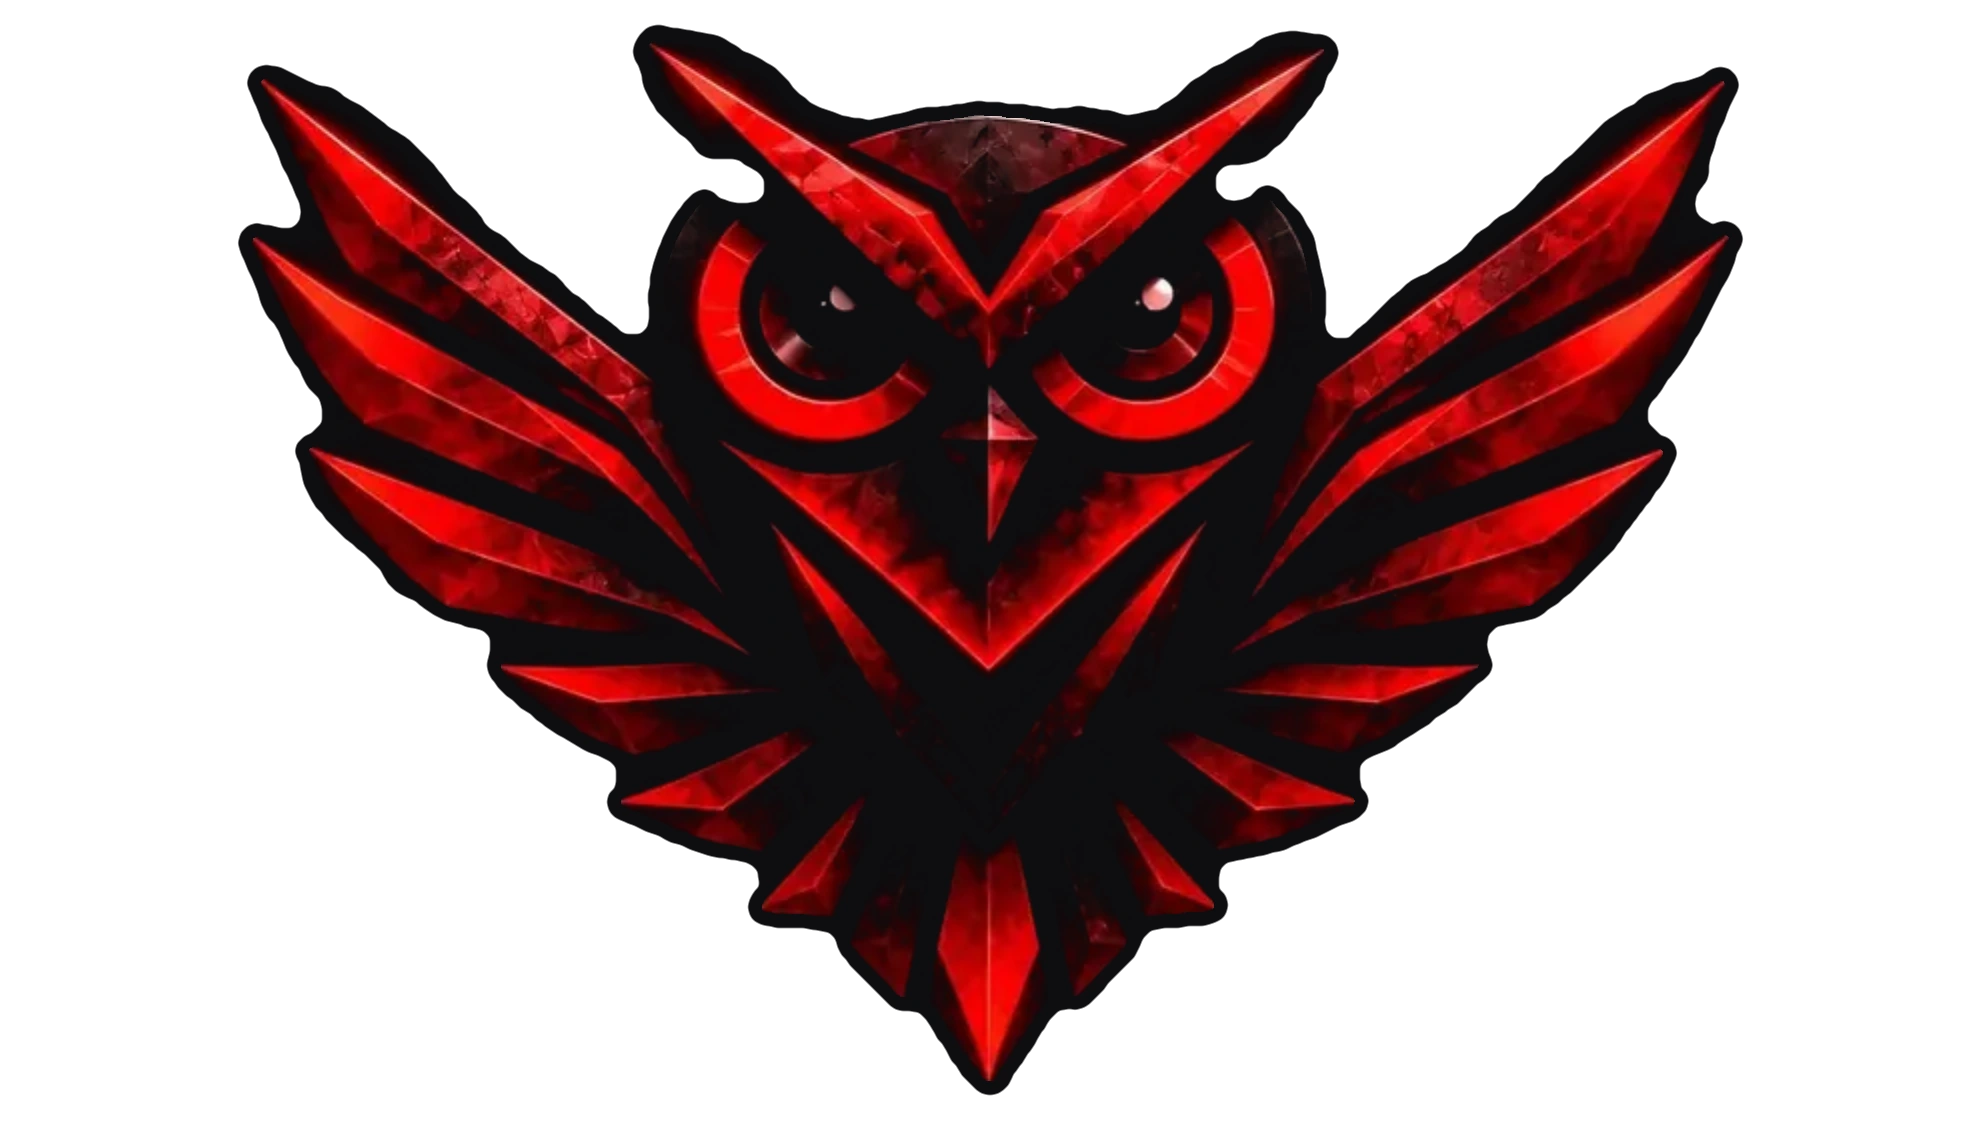
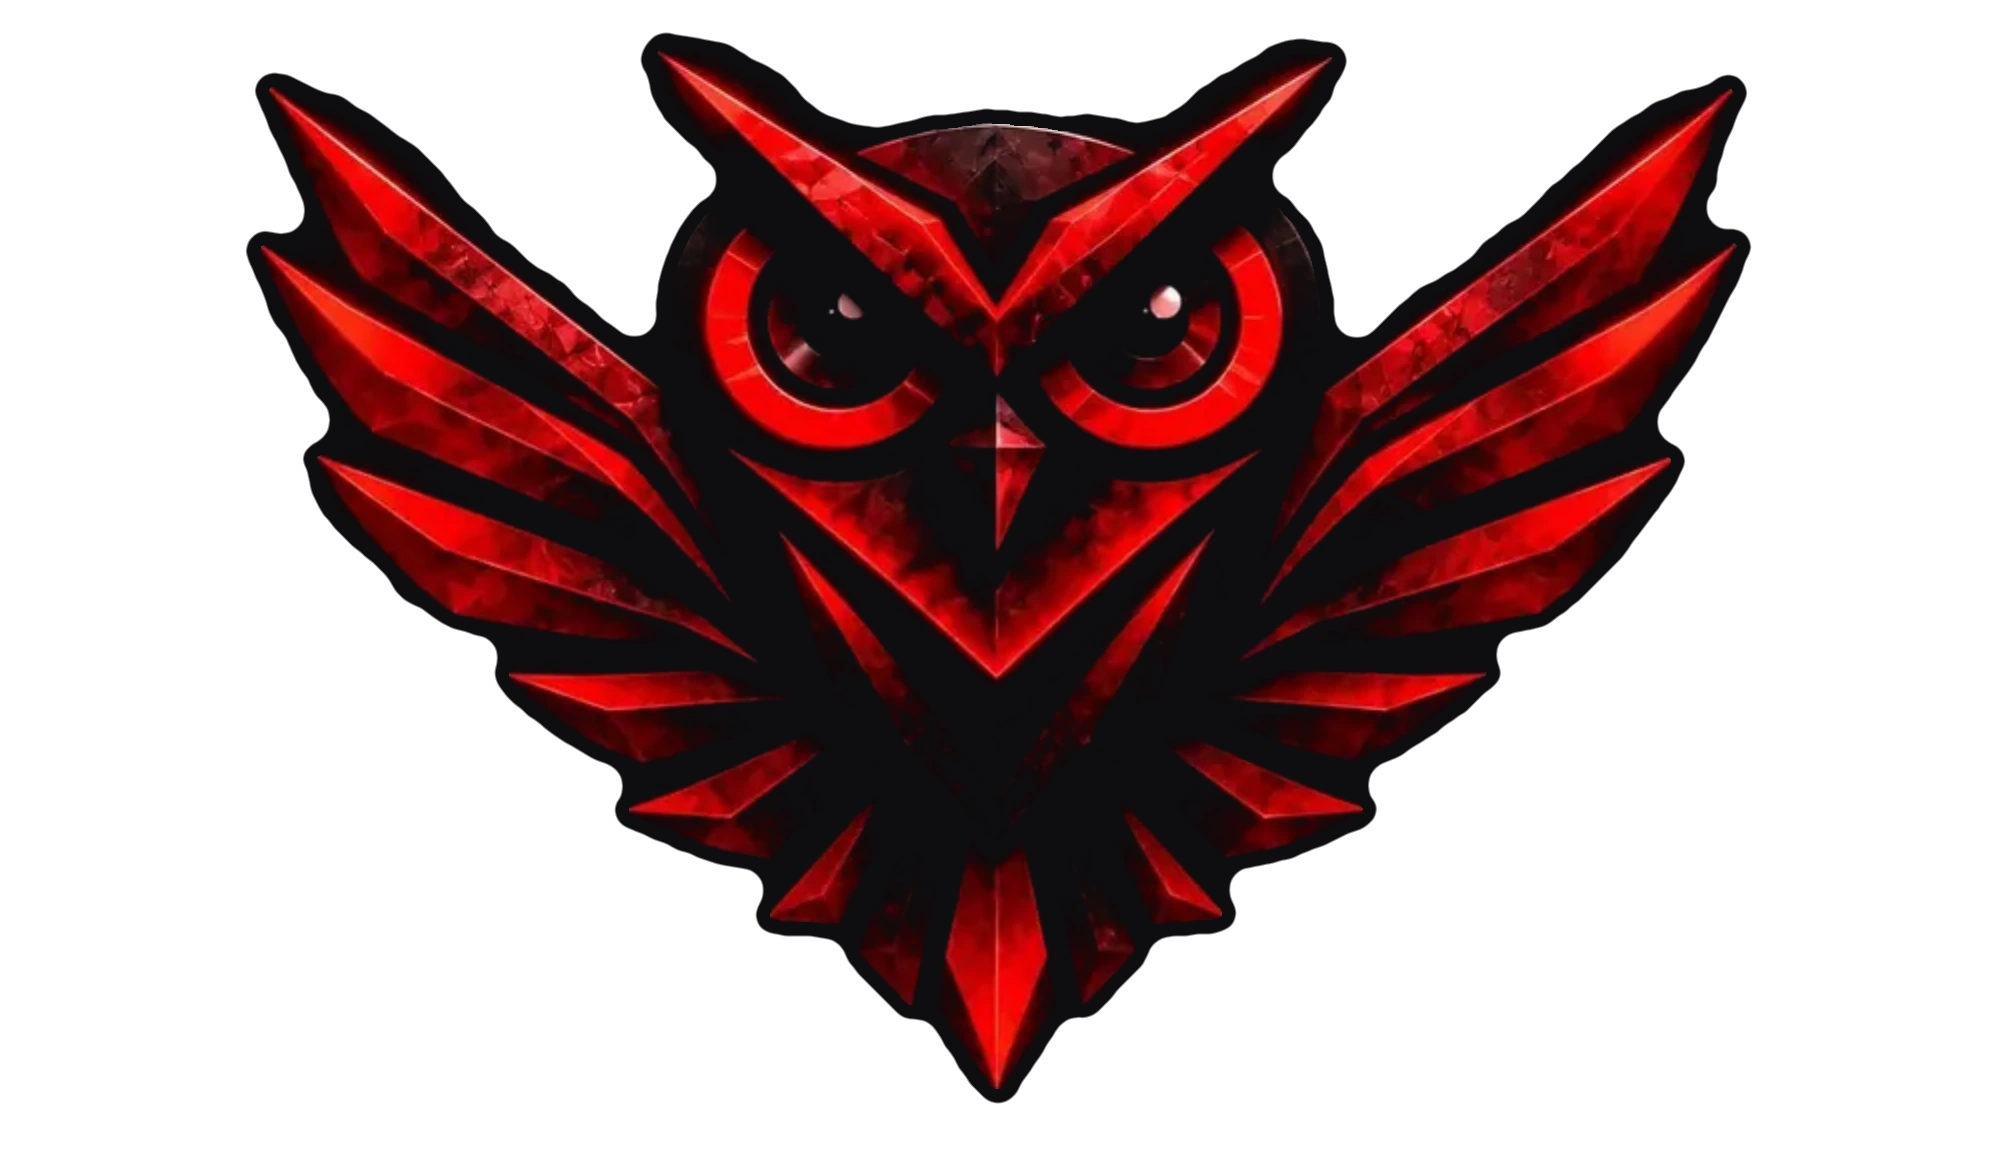
v92: owl outline one solid black shape, pockets filled

diff --git a/index.html b/index.html
@@ -29,16 +29,16 @@
 <link href="https://fonts.googleapis.com/css2?family=Archivo:wdth,wght@62..125,400..900&family=Cairo:wght@400;600;800&family=Reem+Kufi:wght@500;600;700&family=Noto+Naskh+Arabic:wght@500;700&family=Chakra+Petch:wght@500;600&display=swap" rel="stylesheet">
 <style>html,body{margin:0;background:#08080A;color:#F7F5F5}#boot{position:fixed;inset:0;background:#08080A;display:grid;place-items:center;z-index:99}</style>
 <script>try{document.documentElement.setAttribute("data-theme",localStorage.getItem("crm.theme")||"light")}catch(e){}</script>
-<link rel="stylesheet" href="css/app.css?v=91">
-<link rel="stylesheet" href="css/light.css?v=91">
-<link rel="stylesheet" href="css/polish.css?v=91">
+<link rel="stylesheet" href="css/app.css?v=92">
+<link rel="stylesheet" href="css/light.css?v=92">
+<link rel="stylesheet" href="css/polish.css?v=92">
 </head>
 <body>
-<div id="boot"><div class="bootin"><img class="wings" src="assets/owl-wings.webp" alt="" width="1976" height="1136"><img src="assets/wordmark.webp" alt="Shadows" height="30" style="display:block;margin:6px auto 0"><div class="bootw">WE MOVE IN SILENCE.</div></div></div>
+<div id="boot"><div class="bootin"><img class="wings" src="assets/owl-wings.webp" alt="" width="1992" height="1152"><img src="assets/wordmark.webp" alt="Shadows" height="30" style="display:block;margin:6px auto 0"><div class="bootw">WE MOVE IN SILENCE.</div></div></div>
 
 <main id="auth" hidden>
   <div class="authcard">
-    <img class="authwings" src="assets/owl-wings.webp" alt="" width="1976" height="1136">
+    <img class="authwings" src="assets/owl-wings.webp" alt="" width="1992" height="1152">
     <img class="authword" src="assets/wordmark.webp" alt="Shadows" height="26">
     <p class="authtag">WE MOVE IN SILENCE.</p>
     <div class="seg" id="authseg"><button data-m="in" class="on" data-t="auth.in"></button><button data-m="up" data-t="auth.up"></button></div>
@@ -81,11 +81,11 @@
 <div id="sheet" role="dialog" aria-modal="true"><div class="grab"></div><div id="sheetin"></div></div>
 <div id="toast" role="status"></div>
 
-<script src="js/config.js?v=91"></script>
-<script src="js/i18n.js?v=91"></script>
-<script src="js/store.js?v=91"></script>
-<script src="js/dial.js?v=91"></script>
-<script src="js/fx.js?v=91"></script>
-<script src="js/app.js?v=91"></script>
+<script src="js/config.js?v=92"></script>
+<script src="js/i18n.js?v=92"></script>
+<script src="js/store.js?v=92"></script>
+<script src="js/dial.js?v=92"></script>
+<script src="js/fx.js?v=92"></script>
+<script src="js/app.js?v=92"></script>
 </body>
 </html>

diff --git a/sw.js b/sw.js
@@ -1,4 +1,4 @@
-var C='shadows-crm-v91';
+var C='shadows-crm-v92';
 var A=['./','index.html','css/app.css?v=74','css/light.css?v=74','css/polish.css?v=74','js/config.js?v=74','js/i18n.js?v=74','js/store.js?v=74','js/dial.js?v=74','js/fx.js?v=74','js/app.js?v=74','assets/pin.webp?v=74','join.html','results.html','assets/owl-head.webp','assets/owl-wings.webp','assets/wordmark.webp','assets/icon-192.png','assets/icon-512.png','assets/icon-maskable-512.png','assets/apple-touch-icon.png','assets/eye.webp','manifest.webmanifest'];
 self.addEventListener('install',function(e){e.waitUntil(caches.open(C).then(function(c){return c.addAll(A)}).then(function(){return self.skipWaiting()}))});
 self.addEventListener('activate',function(e){e.waitUntil(caches.keys().then(function(k){return Promise.all(k.filter(function(x){return x!==C&&x!=='shadows-fonts'}).map(function(x){return caches.delete(x)}))}).then(function(){return self.clients.claim()}).then(function(){return self.clients.matchAll({type:'window'})}).then(function(cl){cl.forEach(function(c){try{c.navigate(c.url)}catch(x){}})}))});
